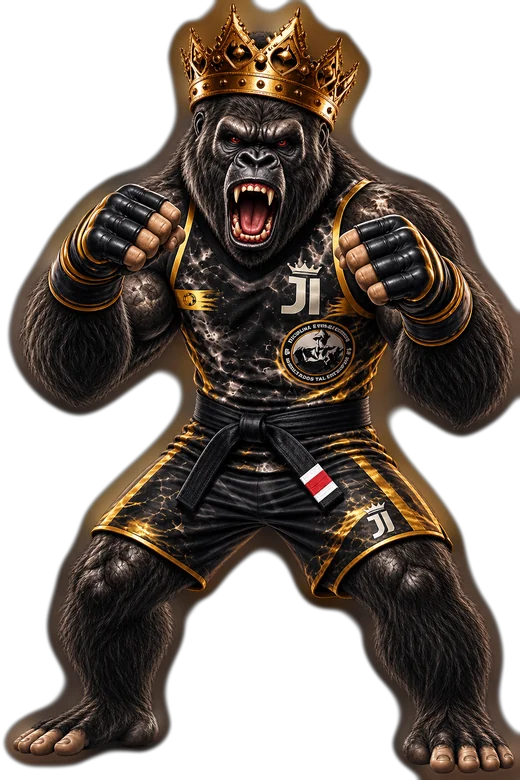
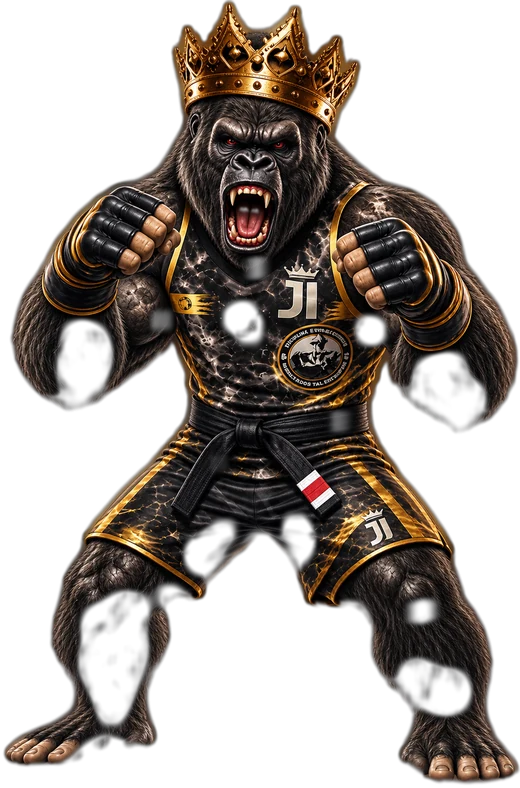
Tira o halo do mascote e devolve a escala da referência
O contorno creme não vinha do CSS: estava assado no asset. O recorte anterior
dilatava a máscara para fechar as áreas lisas do uniforme e nunca a erodia de
volta, então o brilho quente do fundo original entrava como pixel opaco e virava
um halo ao redor da silhueta — o efeito adesivo.

O recorte agora fecha os vãos com dilatação e erosão do mesmo raio, e o limiar
do núcleo subiu de 2,5 para 8: o fundo pintado tem microcontraste perto de 6, o
pelo tem 44 e a pele 20, então esse corte separa o personagem do brilho sem
comer nada dele. Medido na página renderizada, os pixels rente à silhueta ficam
em 8,9–10,1 de luminância contra 9,5 do onyx; antes essa faixa passava de 40.

O palco também perdeu a poça de luz dourada atrás da figura. Qualquer coisa mais
clara que a página lê como halo, e o personagem já traz a própria iluminação.
Isso vale para o acesso também, onde o defeito era o mesmo.

Na Home o mascote deixa de ser uma coluna do grid e passa a ser camada: metade
direita da página, cabeça perto do topo, pés passando da dobra, sangrando pela
direita, atrás de tudo que se lê. No mobile volta para o fluxo acima da
mensagem, onde empilhar é a única forma de nunca cair sobre o texto. A chamada
para ação passou a ficar sob o parágrafo — lado a lado, uma tela larga a
empurrava para o meio da página.

Os testes de sobreposição passaram a medir retângulos pintados em vez de caixas
de elemento: a caixa de um bloco é mais larga que os glifos, e a do mascote é
[…]

diff --git a/src/pages/HomePage.tsx b/src/pages/HomePage.tsx
@@ -83,60 +83,67 @@ export default function HomePage() {
         </span>
       </motion.header>
 
-      {/* Hero. The statement leads on the left; the mascot answers from the
-          right on wide screens and sits above the copy on narrow ones, where
-          stacking it is the only way it never lands on top of the text. */}
+      {/* The mascot is a layer, not a column. On wide screens it stands in the
+          right half of the page — head near the top, feet running past the
+          fold, bleeding off the right edge — behind everything the visitor
+          reads. On narrow screens it returns to the flow above the statement,
+          where stacking it is the only way it never lands on the text. */}
+      <div
+        data-slot="mascot-3d"
+        className="relative z-0 mx-auto h-[clamp(260px,38vh,380px)] w-full max-w-[440px] px-6 sm:px-10 lg:absolute lg:right-0 lg:top-[2vh] lg:mx-0 lg:h-[112vh] lg:w-[56%] lg:max-w-none lg:px-0"
+      >
+        <Mascot3D variant="home" state="idle" intensity={1} priority />
+      </div>
+
+      {/* Onyx floor beneath the footer: the figure runs past the fold, and the
+          facts still read against the page instead of against fur. */}
+      <div
+        aria-hidden
+        className="pointer-events-none absolute inset-x-0 bottom-0 z-[1] hidden h-44 bg-gradient-to-t from-onyx via-onyx/80 to-transparent lg:block"
+      />
+
+      {/* Statement */}
       <div className="relative z-10 flex flex-1 items-center px-6 pb-10 sm:px-10 sm:pb-14">
-        <div className="grid w-full items-center gap-y-2 lg:grid-cols-[minmax(0,1fr)_minmax(0,0.92fr)] lg:gap-x-10">
-          <div
-            data-slot="mascot-3d"
-            className="order-1 mx-auto h-[clamp(210px,34vh,300px)] w-full max-w-[360px] sm:h-[clamp(300px,44vh,470px)] sm:max-w-[460px] lg:order-2 lg:-mr-6 lg:mx-0 lg:h-[min(70vh,680px)] lg:max-w-none xl:-mr-14"
+        <motion.section
+          initial="initial"
+          animate="animate"
+          variants={{ animate: { transition: { staggerChildren: 0.09, delayChildren: 0.35 } } }}
+          className="w-full lg:max-w-[48%]"
+        >
+          <motion.p
+            variants={{ initial: { opacity: 0, y: 10 }, animate: { opacity: 1, y: 0, transition: { duration: DUR.editorial, ease: EASE } } }}
+            className="eyebrow"
           >
-            <Mascot3D variant="home" state="idle" intensity={1} priority />
-          </div>
+            {[location, publicClub?.foundedYear && `desde ${publicClub.foundedYear}`]
+              .filter(Boolean)
+              .join(' · ') || 'Plataforma de gestão'}
+          </motion.p>
 
-          {/* Statement */}
-          <motion.section
-            initial="initial"
-            animate="animate"
-            variants={{ animate: { transition: { staggerChildren: 0.09, delayChildren: 0.35 } } }}
-            className="order-2 lg:order-1"
+          <motion.h1
+            variants={{ initial: { opacity: 0, y: 18 }, animate: { opacity: 1, y: 0, transition: { duration: 0.9, ease: EASE } } }}
+            className="mt-4 font-display text-[clamp(3rem,11vw,7.5rem)] font-medium leading-[0.88] tracking-tightest text-ink"
           >
-            <motion.p
-              variants={{ initial: { opacity: 0, y: 10 }, animate: { opacity: 1, y: 0, transition: { duration: DUR.editorial, ease: EASE } } }}
-              className="eyebrow"
-            >
-              {[location, publicClub?.foundedYear && `desde ${publicClub.foundedYear}`]
-                .filter(Boolean)
-                .join(' · ') || 'Plataforma de gestão'}
-            </motion.p>
+            Chega mais<span className="text-gold">.</span>
+          </motion.h1>
 
-            <motion.h1
-              variants={{ initial: { opacity: 0, y: 18 }, animate: { opacity: 1, y: 0, transition: { duration: 0.9, ease: EASE } } }}
-              className="mt-4 font-display text-[clamp(3rem,11vw,7.5rem)] font-medium leading-[0.88] tracking-tightest text-ink"
-            >
-              Chega mais<span className="text-gold">.</span>
-            </motion.h1>
+          <motion.div
+            variants={{ initial: { opacity: 0, y: 12 }, animate: { opacity: 1, y: 0, transition: { duration: DUR.editorial, ease: EASE } } }}
+            className="mt-7 flex flex-col items-start gap-7"
+          >
+            <p className="max-w-md text-[13px] leading-relaxed text-ink-muted sm:text-sm">
+              O clube inteiro em um só lugar: elenco, calendário, finanças e patrimônio.
+              Feito para quem cuida do Juventus todos os dias.
+            </p>
 
-            <motion.div
-              variants={{ initial: { opacity: 0, y: 12 }, animate: { opacity: 1, y: 0, transition: { duration: DUR.editorial, ease: EASE } } }}
-              className="mt-7 flex flex-wrap items-end justify-between gap-8"
+            <Link
+              to={entryHref}
+              className="group inline-flex items-center gap-2.5 rounded-md bg-ink px-5 py-3 text-sm font-medium text-onyx transition-colors duration-200 hover:bg-white"
             >
-              <p className="max-w-md text-[13px] leading-relaxed text-ink-muted sm:text-sm">
-                O clube inteiro em um só lugar: elenco, calendário, finanças e patrimônio.
-                Feito para quem cuida do Juventus todos os dias.
-              </p>
-
-              <Link
-                to={entryHref}
-                className="group inline-flex items-center gap-2.5 rounded-md bg-ink px-5 py-3 text-sm font-medium text-onyx transition-colors duration-200 hover:bg-white"
-              >
-                {entryLabel}
-                <ArrowRight className="h-4 w-4 transition-transform duration-200 group-hover:translate-x-0.5" />
-              </Link>
-            </motion.div>
-          </motion.section>
-        </div>
+              {entryLabel}
+              <ArrowRight className="h-4 w-4 transition-transform duration-200 group-hover:translate-x-0.5" />
+            </Link>
+          </motion.div>
+        </motion.section>
       </div>
 
       {/* Footer facts */}

diff --git a/src/components/mascot/MascotStage.tsx b/src/components/mascot/MascotStage.tsx
@@ -63,16 +63,10 @@ export function MascotStage({
       transition={{ duration: entrance.duration, delay: entrance.delay, ease: EASE }}
       className={cn('pointer-events-none relative isolate select-none', className)}
     >
-      {/* Light the figure is standing in. Warm, low, and deliberately not a glow. */}
-      <div className="absolute inset-0 -z-10" style={layer(-0.42)}>
-        <div
-          className="absolute left-1/2 top-[46%] h-[86%] w-[84%] -translate-x-1/2 -translate-y-1/2 rounded-full"
-          style={{
-            background:
-              'radial-gradient(circle at 50% 50%, rgba(201,162,39,0.14) 0%, rgba(201,162,39,0.045) 44%, rgba(8,9,11,0) 72%)',
-          }}
-        />
-      </div>
+      {/* No pool of light behind the figure: anything lighter than the page
+          reads as a halo around the silhouette, which is exactly the sticker
+          look this composition must not have. The figure carries its own
+          lighting; the page stays onyx right up to the edge of the fur. */}
 
       {/* Contact shadow: what keeps the figure standing on the page. */}
       <div className="absolute inset-x-[14%] bottom-[1%] -z-10 h-[7%]" style={layer(0.55)}>

diff --git a/src/components/mascot/mascotConfig.ts b/src/components/mascot/mascotConfig.ts
@@ -14,7 +14,7 @@ export const MASCOT_ARTWORK = {
   webpSmall: '/mascot/juventus-mascot-sm.webp',
   png: '/mascot/juventus-mascot.png',
   width: 900,
-  height: 1350,
+  height: 1364,
 } as const;
 
 /**
